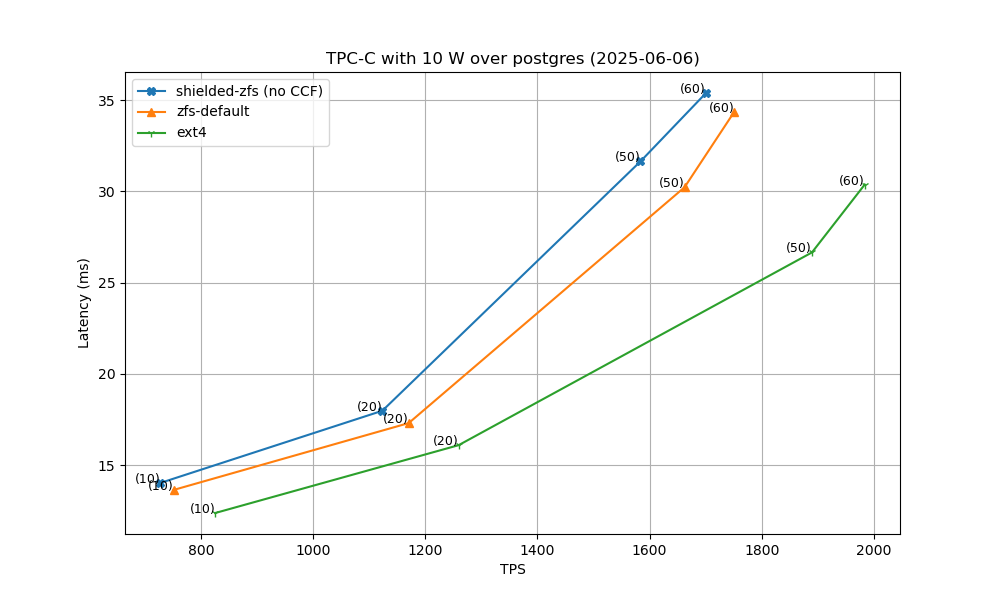
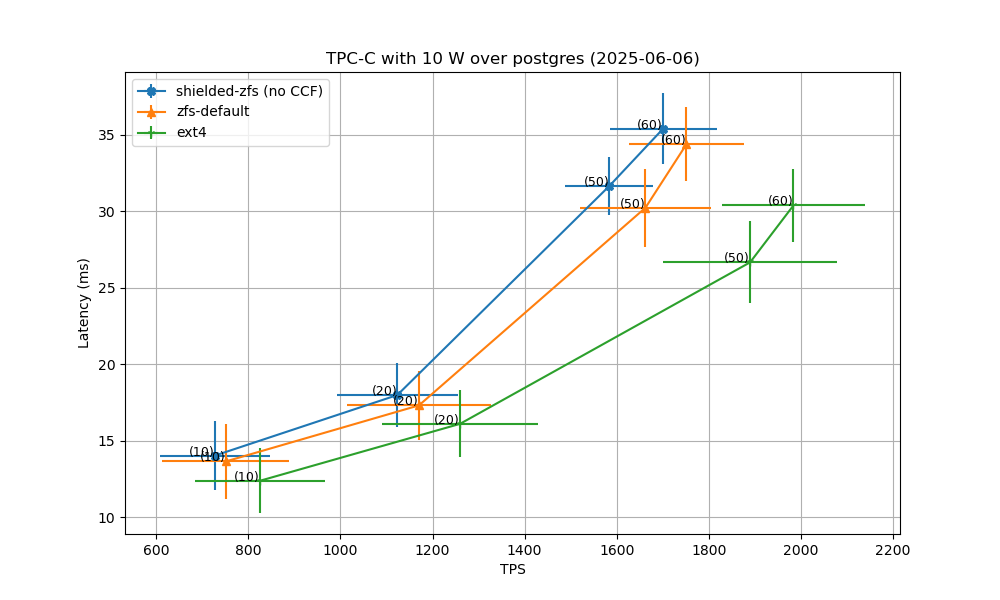
added error bars

diff --git a/scripts/lat-throughput.py b/scripts/lat-throughput.py
@@ -61,11 +61,57 @@ throughput_shielded_zfs =[
 
 
 
+# Example standard deviations
+latency_ext4_stdev = [
+    2.109802518,
+    2.188825789,
+    2.68418827,
+    2.381419395
+]
+
+throughput_ext4_stdev = [
+    140.4561807,
+    169.8792352,
+    188.9855772,
+    154.845375
+]
+
+latency_default_zfs_stdev = [
+    2.474947811,
+    2.260905055,
+    2.546479596,
+    2.429284874
+]
+
+throughput_default_zfs_stdev = [
+    137.9327528,
+    155.5306509,
+    142.5215317,
+    125.7470596
+]
+
+latency_shielded_zfs_stdev = [
+    2.27428377,
+    2.087125216,
+    1.875053333,
+    2.335842104
+]
+
+throughput_shielded_zfs_stdev = [
+    118.7437624,
+    131.7191272,
+    95.67615847,
+    116.1841103
+]
+
+
+
+
 # Create a plot
 plt.figure(figsize=(10, 6))
-plt.plot(throughput_shielded_zfs, latency_shielded_zfs, marker='X', label="shielded-zfs (no CCF)")
-plt.plot(throughput_default_zfs, latency_default_zfs, marker='^', label="zfs-default")
-plt.plot(throughput_ext4, latency_ext4, marker='1', label="ext4")
+plt.errorbar(throughput_shielded_zfs, latency_shielded_zfs, xerr=throughput_shielded_zfs_stdev, yerr=latency_shielded_zfs_stdev, marker='X', label="shielded-zfs (no CCF)")
+plt.errorbar(throughput_default_zfs, latency_default_zfs, xerr=throughput_default_zfs_stdev, yerr=latency_default_zfs_stdev, marker='^', label="zfs-default")
+plt.errorbar(throughput_ext4, latency_ext4, xerr=throughput_ext4_stdev, yerr=latency_ext4_stdev, marker='1', label="ext4")
 
 
 
